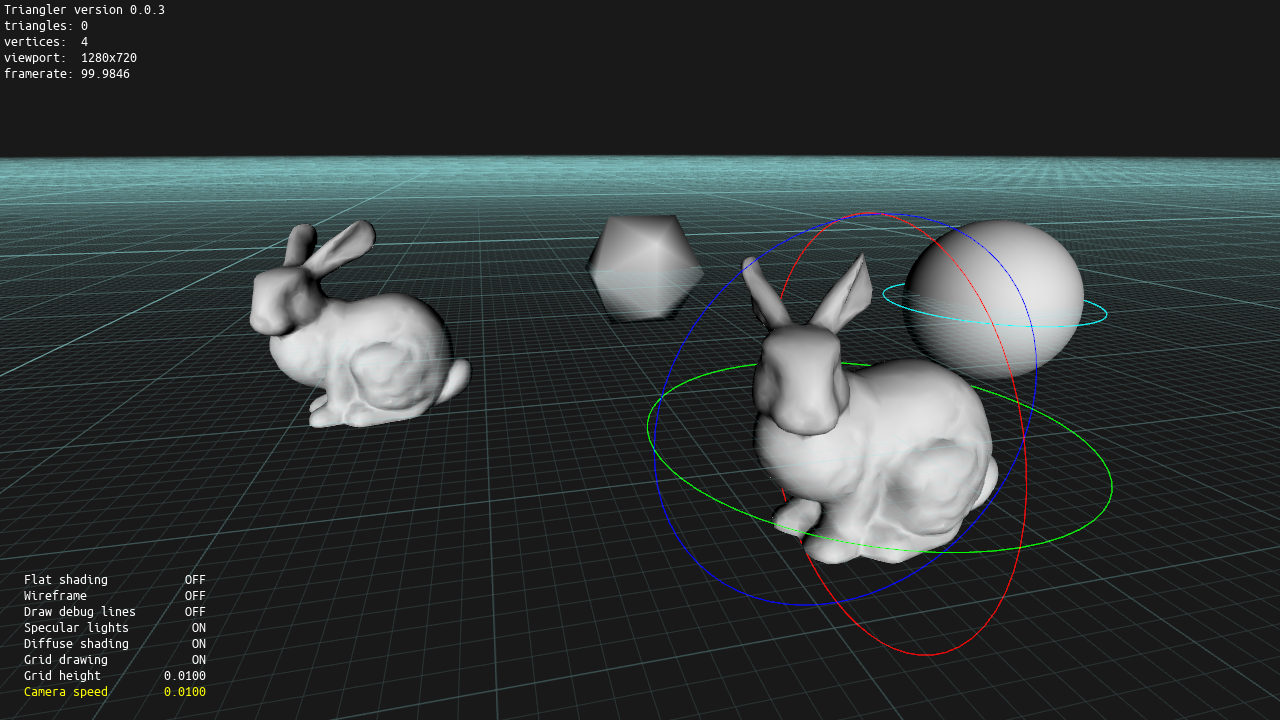
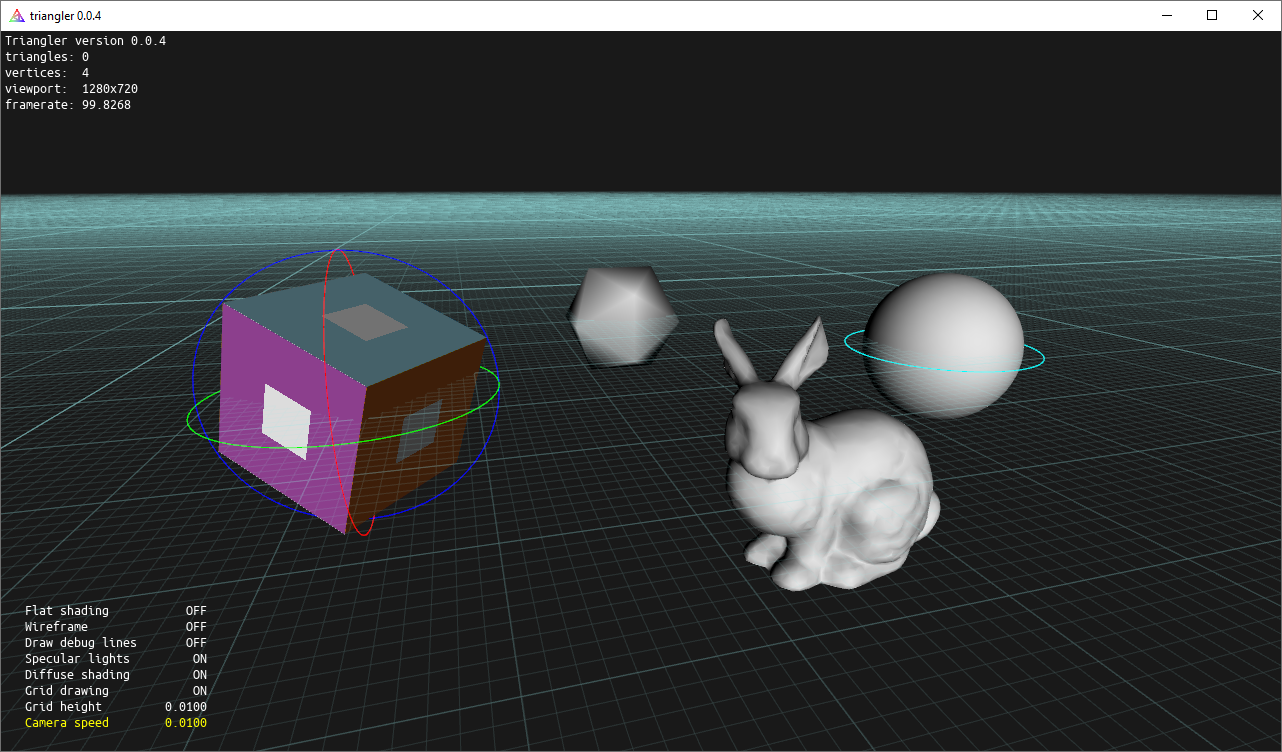
Version 0.0.4; Reimplement hot shader reload, add diffuse lighting to texture shader

diff --git a/triangler/shader.cpp b/triangler/shader.cpp
@@ -15,32 +15,44 @@ using namespace std;
 #include "shader.hpp"
 
 Shader::Shader(const char* vertex_file_path, const char* fragment_file_path)
+	: vertex_file_path_(vertex_file_path), fragment_file_path_(fragment_file_path)
 {
+	Compile();
+}
+
+void Shader::Compile()
+{
+	// Free previous shader if recompiling
+	if (id_ != -1)
+	{
+		glDeleteShader(id_);
+	}
+
 	GLuint vertex_shader_id = glCreateShader(GL_VERTEX_SHADER);
 	GLuint fragment_shader_id = glCreateShader(GL_FRAGMENT_SHADER);
 
 	std::string vertex_shader_code, fragment_shader_code;
-	if(
-		!LoadShaderFile(vertex_file_path, vertex_shader_code) ||
-		!LoadShaderFile(fragment_file_path, fragment_shader_code)
-	) return;
+	if (
+		!LoadShaderFile(vertex_file_path_, vertex_shader_code) ||
+		!LoadShaderFile(fragment_file_path_, fragment_shader_code)
+		) return;
 
 	const char* vertex_shader_source_ptr = vertex_shader_code.c_str();
 	const char* fragment_shader_source_ptr = fragment_shader_code.c_str();
 
 	if (
-		CompileShader(vertex_file_path, vertex_shader_id, vertex_shader_source_ptr) == -1 ||
-		CompileShader(fragment_file_path, fragment_shader_id, fragment_shader_source_ptr) == -1
+		CompileShaderSource(vertex_file_path_, vertex_shader_id, vertex_shader_source_ptr) == -1 ||
+		CompileShaderSource(fragment_file_path_, fragment_shader_id, fragment_shader_source_ptr) == -1
 		) return;
 
 	GLuint program_id = LinkShaders(vertex_shader_id, fragment_shader_id);
 
+	// Free the shaders used for linking the program
 	if (program_id != -1);
 	{
 		glDetachShader(program_id, vertex_shader_id);
 		glDetachShader(program_id, fragment_shader_id);
 	}
-
 	glDeleteShader(vertex_shader_id);
 	glDeleteShader(fragment_shader_id);
 
@@ -67,7 +79,7 @@ const bool Shader::LoadShaderFile(const char* shader_path, std::string& shader_c
 	}
 }
 
-const GLuint Shader::CompileShader(const char* shader_path, const GLuint shader_id, const char* source_ptr)
+const GLuint Shader::CompileShaderSource(const char* shader_path, const GLuint shader_id, const char* source_ptr)
 {
 	GLint result = GL_FALSE;
 	int log_length;

diff --git a/triangler/app.cpp b/triangler/app.cpp
@@ -171,15 +171,12 @@ void App::InitTestAssets()
 	Object3D* obj1 = new Object3D(ObjectType::Mesh, shaders_["main"]);
 	obj1->Init();
 	obj1->SetMesh(LoadOBJFast("assets/bunny_lores.obj", "assets"));
-	//LoadOBJf(obj1, "assets/bunny_lores.obj");
-	//InitObject(obj1);
-	obj1->Translate({ -0.3f, 0, 0 });
+	obj1->Translate({ 0, 0, 0.25f });
 	objects_.push_back(obj1);
 
 	Object3D* obj2 = new Object3D(ObjectType::Mesh, shaders_["main"]);
 	obj2->Init();
 	obj2->SetMesh(genIcosphere(0));
-	//loadIcosphere(obj2, 0);
 	obj2->Scale(0.08f);
 	obj2->Translate({ 0, 0, -0.25f });
 	objects_.push_back(obj2);
@@ -187,8 +184,6 @@ void App::InitTestAssets()
 	Object3D* obj3 = new Object3D(ObjectType::Mesh, shaders_["main"]);
 	obj3->Init();
 	obj3->SetMesh(genIcosphere(3));
-	//loadIcosphere(obj3, 3);
-	//InitObject(obj3);
 	obj3->Scale(0.081f);
 	obj3->Translate({ 0.3f, 0, 0 });
 	objects_.push_back(obj3);
@@ -206,15 +201,9 @@ void App::InitTestAssets()
 	obj5->Init();
 	obj5->SetMesh(LoadOBJFast("assets/test_cube2.obj", "assets"));
 	obj5->Attach(tex);
-	obj5->Translate({ 0, 0, 0.25f });
+	obj5->Translate({ -0.3f, 0, 0 });
 	obj5->Scale(.07f);
 	objects_.push_back(obj5);
-
-	Object3D* obj6 = new Object3D(ObjectType::Mesh, shaders_["main"]);
-	obj6->Init();
-	obj6->SetMesh(LoadOBJFast("assets/bunny_lores.obj", "assets"));
-	obj6->Translate({ 0, 0, 0.5f });
-	objects_.push_back(obj6);
 
 }
 
@@ -376,10 +365,13 @@ void App::HandleKey(int key, int scancode, int action, int mods)
 	if (action == GLFW_PRESS)
 	{
 		if (key == GLFW_KEY_ESCAPE)
+		{
 			glfwSetWindowShouldClose(window_, GLFW_TRUE);
-		//if (key == GLFW_KEY_R) {
-		//	
-		//}
+		}
+		else if (key == GLFW_KEY_R)
+		{
+			RecompileShaders();
+		}
 		config_.Input(key);
 	}
 }
@@ -669,5 +661,13 @@ void App::CleanUniforms()
 	{
 		Shader* shader = pair.second;
 		shader->CleanObservees();
+	}
+}
+
+void App::RecompileShaders()
+{
+	for (const auto pair : shaders_)
+	{
+		pair.second->Compile();
 	}
 }

diff --git a/triangler/shader.hpp b/triangler/shader.hpp
@@ -18,9 +18,12 @@ class Shader :
 	public MutuallyAttachableTo<ShaderUniformInterface>
 {
 public:
-	GLuint id_;
+	GLuint id_ = -1;
 
 	Shader(const char* vertex_file_path, const char* fragment_file_path);
+
+	// Load, compile and link the shader program from source file paths
+	void Compile();
 
 	// Inherited: CleanableObserver
 	void NotifyDirty(ShaderUniformInterface* cleanable) override;
@@ -31,13 +34,16 @@ public:
 	virtual void Attach(ShaderUniformInterface* uniform) override;
 
 private:
+	const char* vertex_file_path_;
+	const char* fragment_file_path_;
+
 	std::set<ShaderUniformInterface*> uniforms_;
 	std::set<ShaderUniformInterface*> uniforms_dirty_;
 
 	// Read shader source from file
 	const bool LoadShaderFile(const char* shader_path, std::string& shader_cod) const;
 	// Compile shader source
-	const GLuint CompileShader(const char* shader_path, const GLuint shader_id, const char* source_ptr);
+	const GLuint CompileShaderSource(const char* shader_path, const GLuint shader_id, const char* source_ptr);
 	// Link shader programs
 	const GLuint LinkShaders(const GLuint vertex_shader_id, GLuint fragment_shader_id);
 };

diff --git a/triangler/menu.cpp b/triangler/menu.cpp
@@ -46,7 +46,7 @@ TrianglerConfig::TrianglerConfig()
 	config_.insert(std::make_pair(TRIANGLER_SETTING_ID_GRID_DRAW, new BoolSetting("Grid drawing", true)));
 	config_.insert(std::make_pair(TRIANGLER_SETTING_ID_DIFFUSE, new BoolSetting("Diffuse shading", true)));
 	config_.insert(std::make_pair(TRIANGLER_SETTING_ID_SPECULAR, new BoolSetting("Specular lights", true)));
-	config_.insert(std::make_pair(TRIANGLER_SETTING_ID_DEBUG, new BoolSetting("Draw debug lines", true)));
+	config_.insert(std::make_pair(TRIANGLER_SETTING_ID_DEBUG, new BoolSetting("Draw debug lines", false)));
 	config_.insert(std::make_pair(TRIANGLER_SETTING_ID_WIREFRAME, new BoolSetting("Wireframe", false)));
 	config_.insert(std::make_pair(TRIANGLER_SETTING_ID_FLAT, new BoolSetting("Flat shading", false)));
 }

diff --git a/triangler/app.hpp b/triangler/app.hpp
@@ -30,7 +30,7 @@
 #include "objectfocuser.hpp"
 #include "ShaderUniform.h"
 
-#define TRIANGLER_VERSION "0.0.3"
+#define TRIANGLER_VERSION "0.0.4"
 #define WINDOW_START_WIDTH 1280
 #define WINDOW_START_HEIGHT 720
 
@@ -56,6 +56,7 @@ public:
 
 	void UpdateGlobalUniforms();
 	void CleanUniforms();
+	void RecompileShaders();
 
 	void HandleCursorMove(double xpos, double ypos);
 	void HandleResize(int height, int width);
